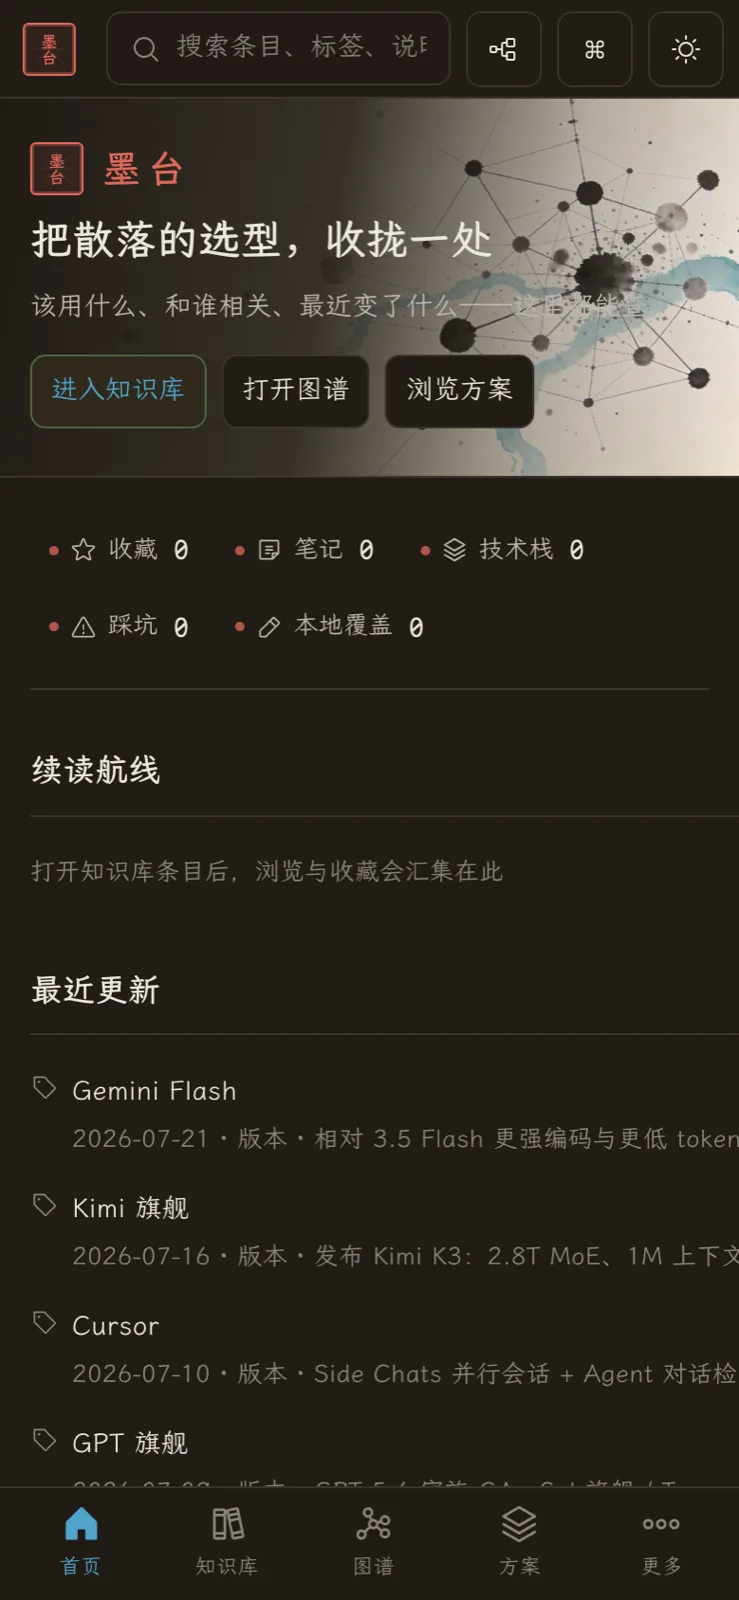
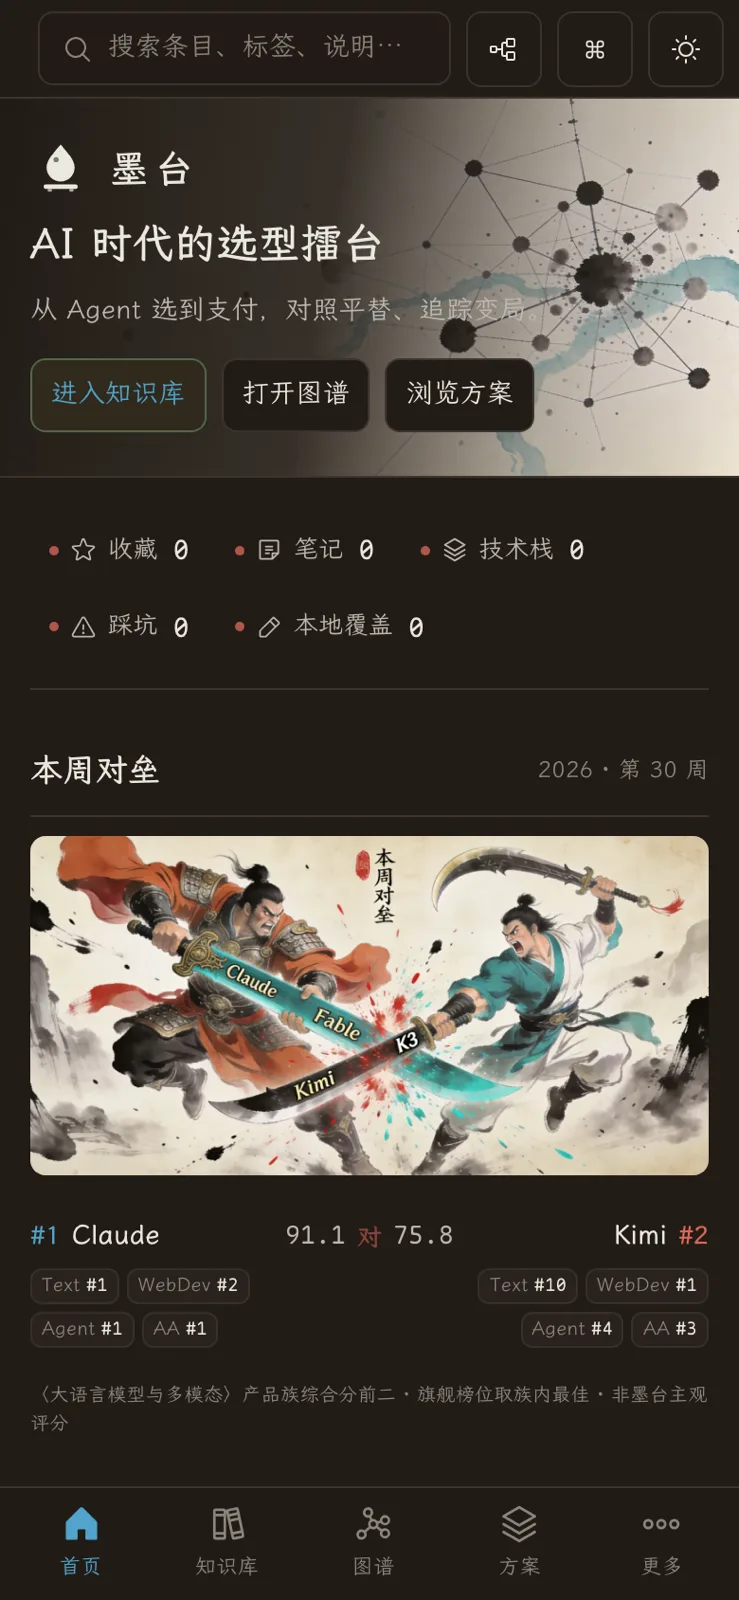
更新首页口号为「AI 时代的选型擂台」，并刷新文档截图。
主副文案分工更清晰；同步榜首竖排防裁切样式与 README 各端首页截图。

diff --git a/apps/desktop/src/styles.css b/apps/desktop/src/styles.css
@@ -3287,10 +3287,11 @@ span.vh-mono,
 .vh-ranking-row[data-place='1'] .vh-ranking-rank {
   flex-direction: row;
   align-items: stretch;
-  min-width: 3.2em;
+  min-width: 3.8em;
   gap: 7px;
   padding-right: 12px;
   border-right: 1px solid color-mix(in oklch, var(--pigment-seal) 22%, transparent);
+  overflow: visible;
 }
 .vh-ranking-rank-value {
   display: flex;
@@ -3327,13 +3328,49 @@ span.vh-mono,
   font-family: var(--font-display);
   font-size: 11px;
   font-weight: 400;
-  letter-spacing: 0.35em;
+  /* 字距只加在字间；末字后用负 margin 收回，避免撑破窄卡片 */
+  letter-spacing: 0.28em;
+  margin-block-end: -0.28em;
   color: var(--pigment-seal);
   opacity: 0.88;
-  padding: 2px 0 0;
+  /* 竖排下行高≈物理宽度；楷体出格需 >1，左右再留 padding 防裁切 */
+  line-height: 1.35;
+  padding: 2px 0.15em 0;
   border: none;
   background: none;
-  line-height: 1;
+  overflow: visible;
+  flex-shrink: 0;
+}
+/* 窄详情栏：侧栏数字略收，给竖排「榜首」完整出墨空间 */
+@container kbdetail (max-width: 720px) {
+  .vh-ranking-row[data-place='1'] .vh-ranking-rank {
+    min-width: 3.4em;
+    gap: 6px;
+    padding-right: 10px;
+  }
+  .vh-ranking-row[data-place='1'] .vh-ranking-num {
+    font-size: 28px;
+  }
+  .vh-ranking-first-mark {
+    font-size: 10.5px;
+    line-height: 1.4;
+    padding: 1px 0.2em 0;
+  }
+}
+@media (max-width: 767px) {
+  .vh-ranking-row[data-place='1'] .vh-ranking-rank {
+    min-width: 3.4em;
+    gap: 6px;
+    padding-right: 10px;
+  }
+  .vh-ranking-row[data-place='1'] .vh-ranking-num {
+    font-size: 28px;
+  }
+  .vh-ranking-first-mark {
+    font-size: 10.5px;
+    line-height: 1.4;
+    padding: 1px 0.2em 0;
+  }
 }
 .vh-ranking-row[data-kind="share"] .vh-ranking-num {
   font-size: 18px;

diff --git a/apps/desktop/src/components/DashboardView.tsx b/apps/desktop/src/components/DashboardView.tsx
@@ -108,7 +108,7 @@ export function DashboardView({
             animate={{ opacity: 1, y: 0 }}
             transition={{ ...tSlow, delay: reduced ? 0 : 0.14 }}
           >
-            从 Agent 选到支付
+            AI 时代的选型擂台
           </motion.h1>
           <motion.p
             className="vh-home-lede"
@@ -116,7 +116,7 @@ export function DashboardView({
             animate={{ opacity: 1, y: 0 }}
             transition={{ ...tSlow, delay: reduced ? 0 : 0.2 }}
           >
-            把选型坑点妥帖收纳，让技术迭代有据可循。
+            从 Agent 选到支付，对照平替、追踪变局。
           </motion.p>
           <motion.div
             className="vh-home-cta"

diff --git a/README.md b/README.md
@@ -5,8 +5,8 @@
 <h1 align="center">墨台 · VibeHolding</h1>
 
 <p align="center">
-  <strong>从 Agent 选到支付</strong><br/>
-  面向 Vibe Coding 开发者的全链路基建驾驶舱 ——<br/>
+  <strong>AI 时代的选型擂台</strong><br/>
+  从 Agent 选到支付，对照平替、追踪变局。<br/>
   结构化知识库 · 关系拓扑 · 方案组合 · 情报追踪 · 本地凭据
 </p>
 
